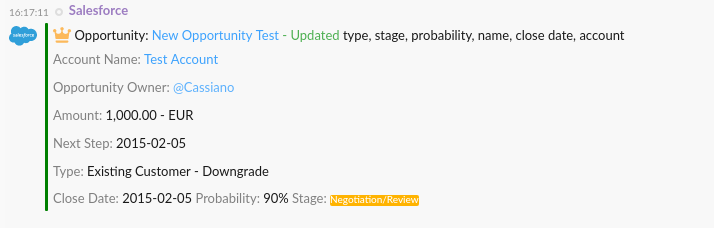
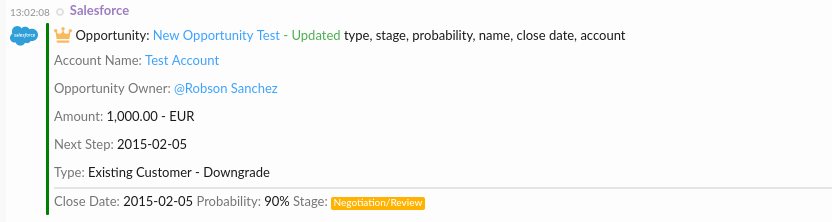
Fix

Changed region(s): [[0.0, 0.1081, 0.8936, 0.973], [0.0, 0.027, 0.1849, 0.0811]]

diff --git a/README.md b/README.md
@@ -104,8 +104,8 @@ The opportunity notification may have two different formats: XML or JSON
         "Id": "00146000344oPCcAAM"
       },
       "Owner": {
-        "Email": "Cassiano.Repache@symphony.com",
-        "Name": "Cassiano Cesar Repache",
+        "Email": "rsanchez@symphony.com",
+        "Name": "Robson Sanchez",
         "Id": "00546000000ZJrdAAG"
       },
       "TotalOpportunityQuantity": null,
@@ -133,7 +133,7 @@ The opportunity notification may have two different formats: XML or JSON
    <br />
    <b>Account Name:</b>Test Account (<a href="https://link.to.the.opportunity.at.salesforce/path/to/the/opportunity/at/salesforce" />)
    <br />
-   <b>Opportunity Owner:</b>Cassiano Cesar Repache (Cassiano.Repache@symphony.com)
+   <b>Opportunity Owner:</b>Robson Sanchez (rsanchez@symphony.com)
    <br />
    <b>Amount:</b>1,000.00 EUR
    <br />
@@ -260,8 +260,8 @@ Following an example:
             "Owner":{  
                "type":"com.symphony.integration.salesforce.Owner",
                "version":"1.0",
-               "Name":"Cassiano Cesar Repache",
-               "Email":"Cassiano.Repache@symphony.com"
+               "Name":"Robson Sanchez",
+               "Email":"rsanchez@symphony.com"
             }
          }
       }
